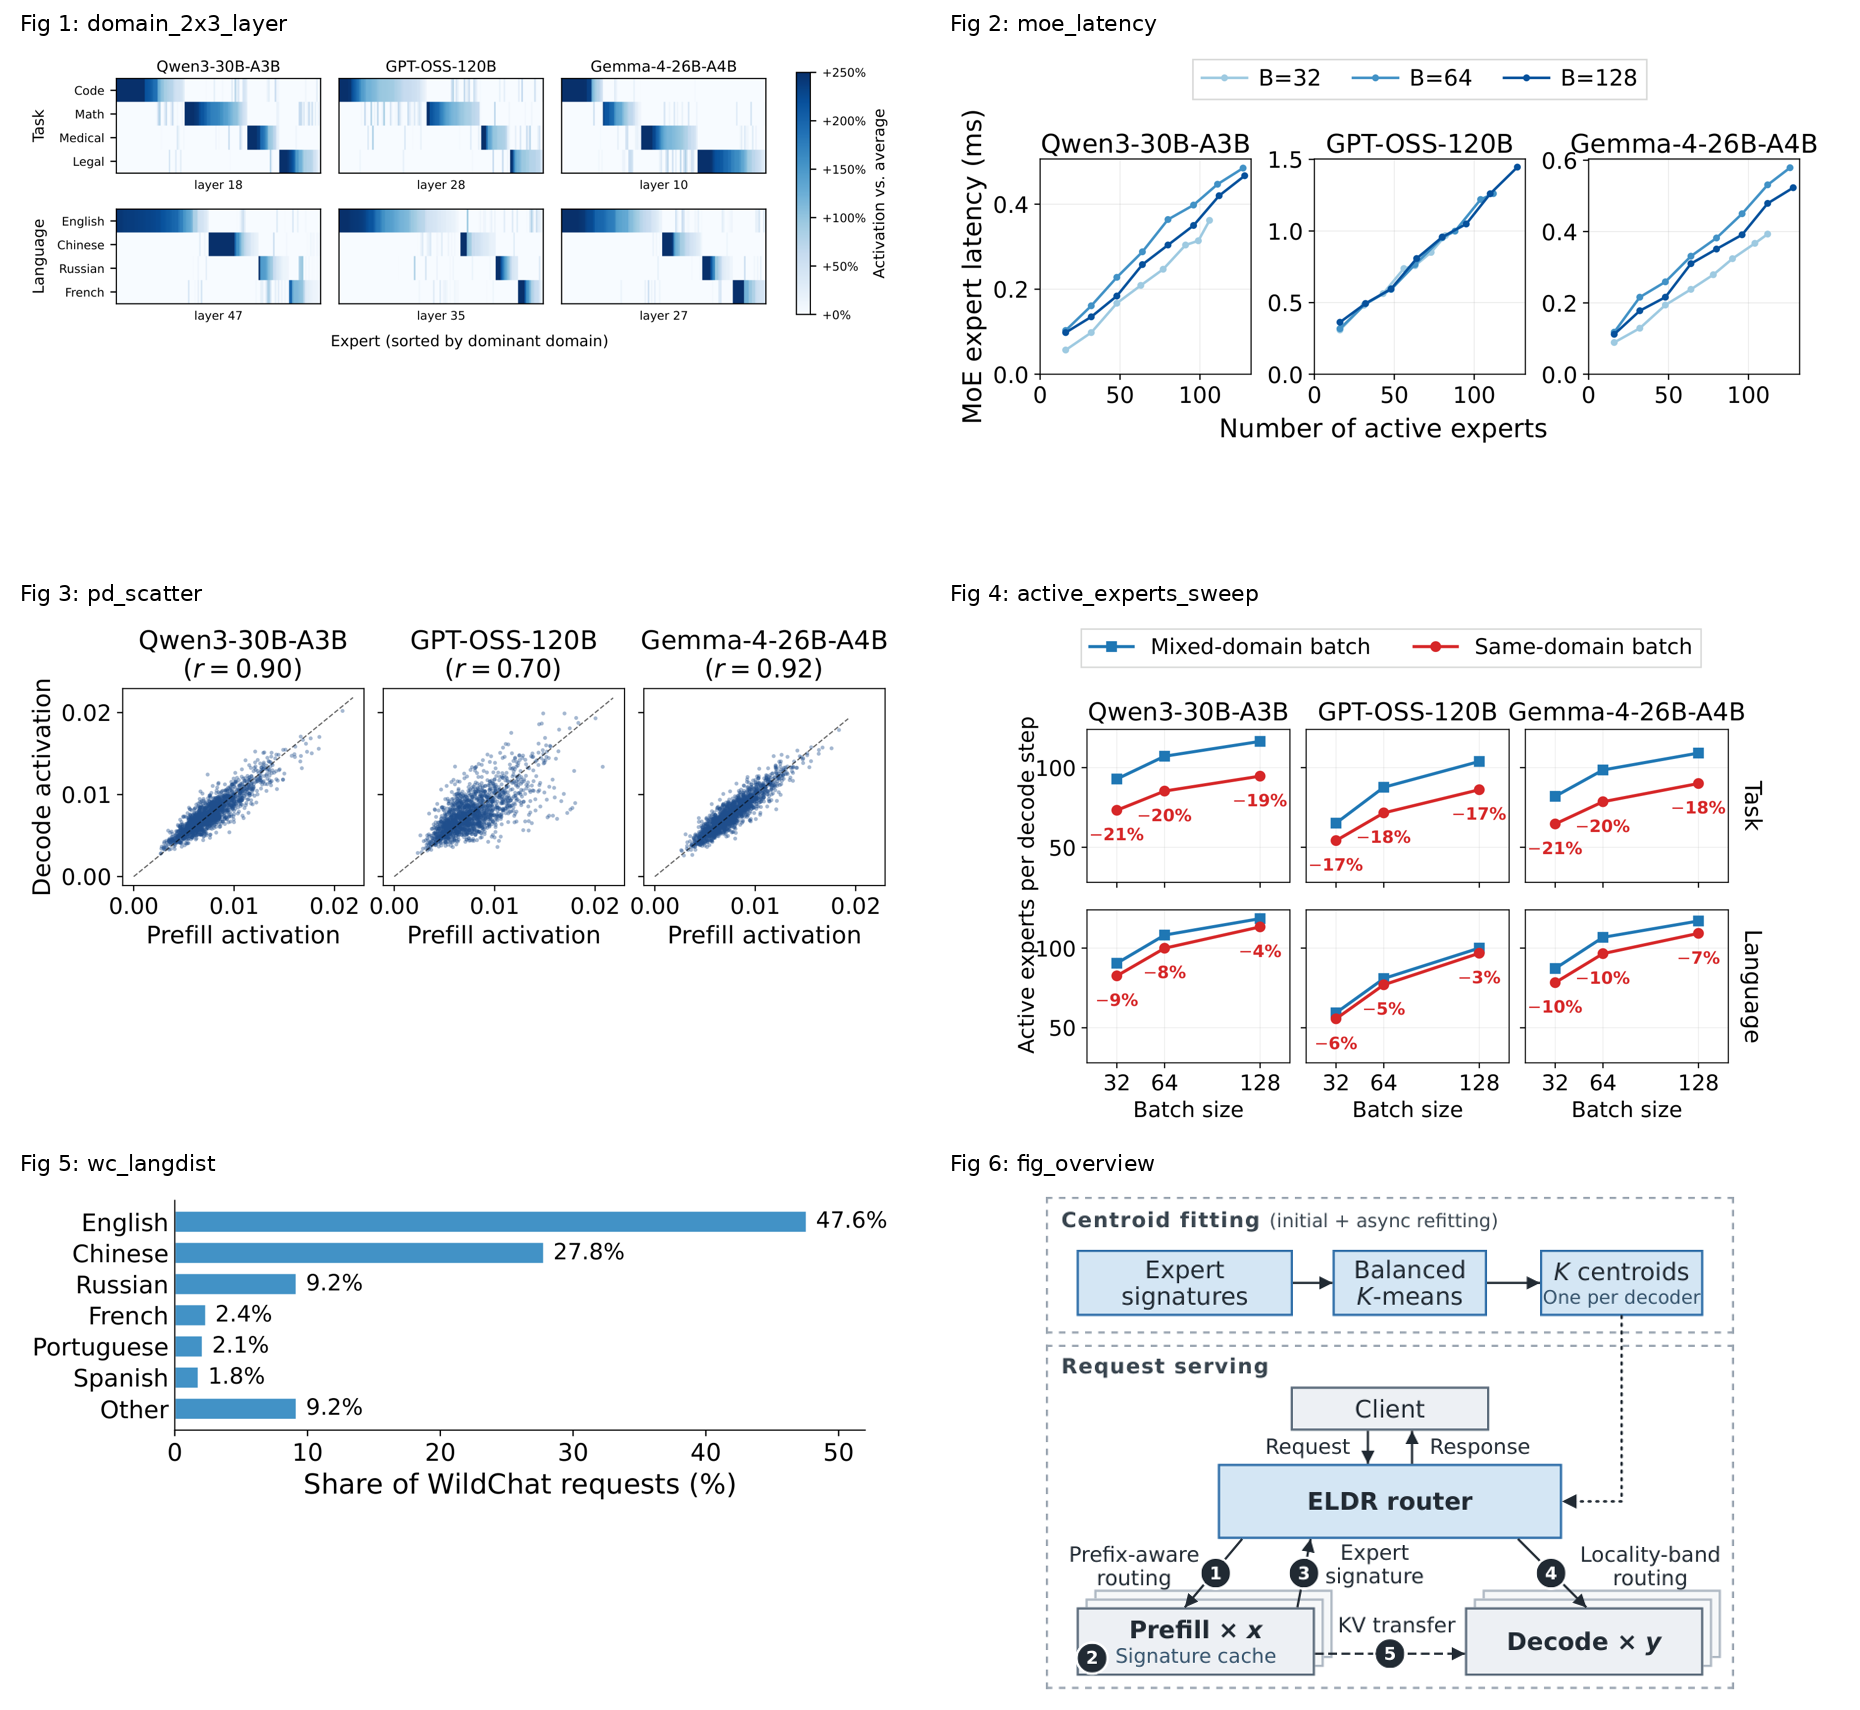
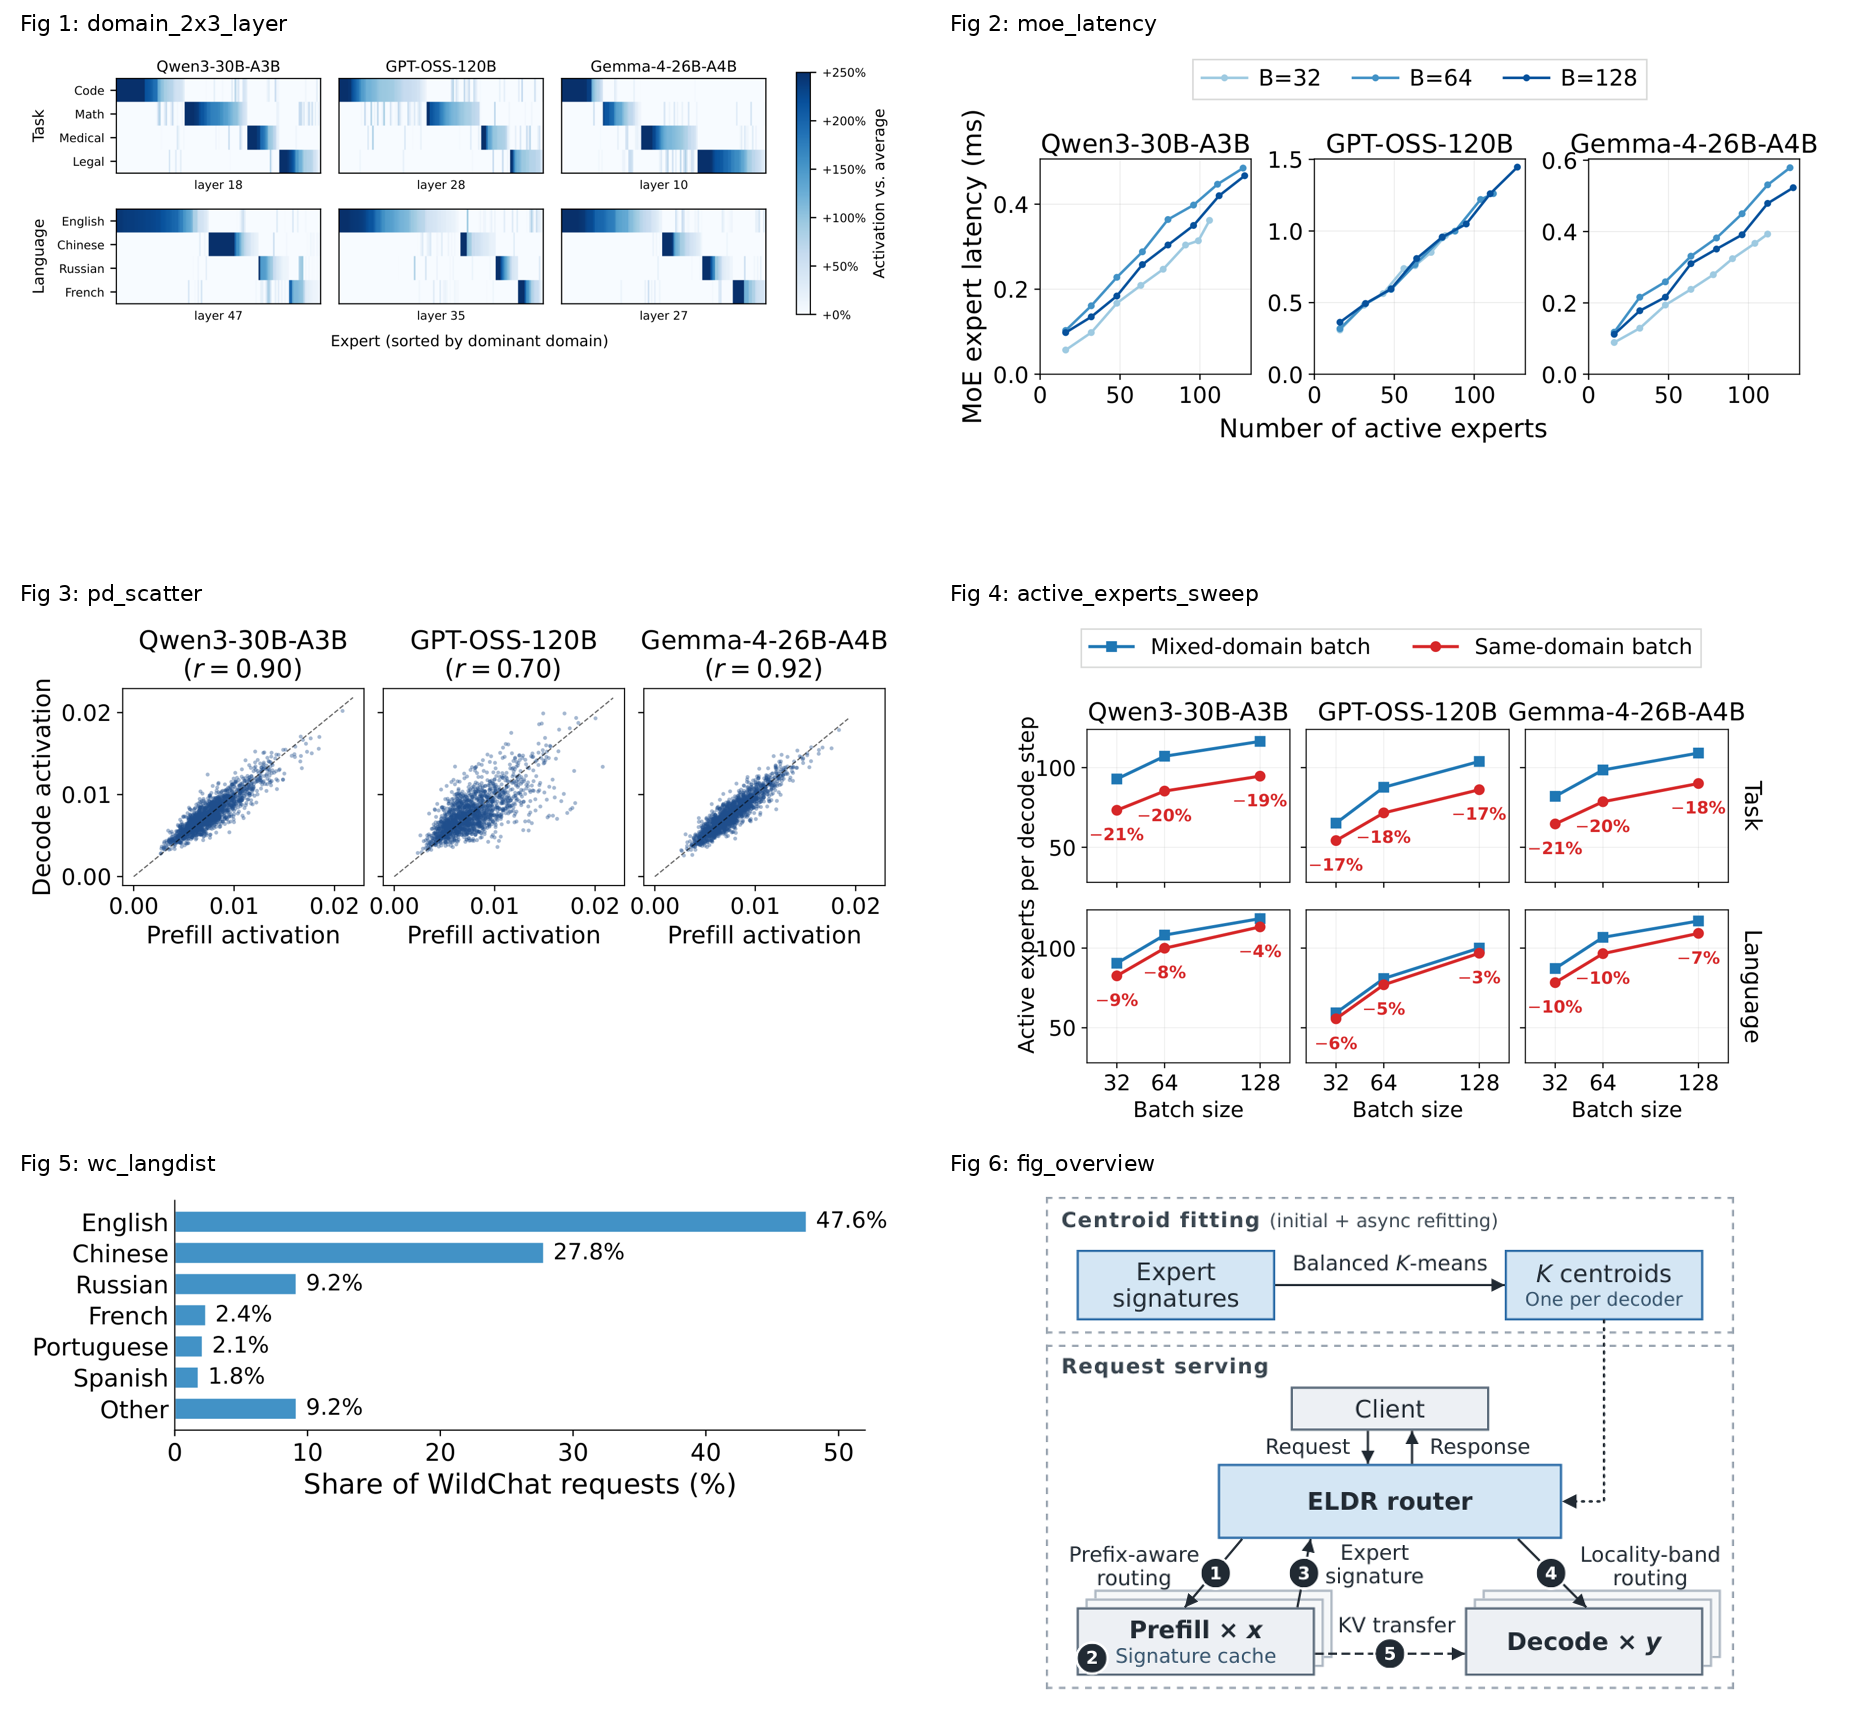
Publish aligned Fig. 6 centroid-fitting boxes
Use one Balanced K-means arrow between equally sized boxes. Update exact-PDF preview, gallery, and font audit; other figures and measurements are unchanged.

Assisted-by: OpenAI Codex

Changed region(s): [[0.5925, 0.7129, 0.9043, 0.7749]]

diff --git a/results/camera-ready-20261011-unified-figures/plots/overview.html b/results/camera-ready-20261011-unified-figures/plots/overview.html
@@ -43,11 +43,9 @@
   <div class="phase" style="left:4px;top:4px;width:312px;height:62px;"></div>
   <div class="tab" style="left:11px;top:9px;">Centroid fitting
       <span style="font-size:8.5px;font-weight:normal;letter-spacing:0;">(initial + async refitting)</span></div>
-  <div class="b acc" style="left:18px;top:28px;width:98px;height:30px;">
+  <div class="b acc" style="left:18px;top:28px;width:90px;height:32px;">
       <span>Expert<br>signatures</span></div>
-  <div class="b acc" style="left:134px;top:28px;width:70px;height:30px;">
-      <span>Balanced</span><span><i>K</i>-means</span></div>
-  <div class="b acc" style="left:228px;top:28px;width:74px;height:30px;">
+  <div class="b acc" style="left:212px;top:28px;width:90px;height:32px;">
       <span><i>K</i> centroids</span><span class="sub note">One per decoder</span></div>
 
   <!-- Request serving: step numbers match the five steps in the text. -->
@@ -76,8 +74,7 @@
     </defs>
     <!-- request / response flow: solid -->
     <g stroke="#222A33" stroke-width="1" fill="none">
-      <line x1="116" y1="43" x2="134" y2="43" marker-end="url(#mf)"/>
-      <line x1="204" y1="43" x2="228" y2="43" marker-end="url(#mf)"/>
+      <line x1="108" y1="44" x2="212" y2="44" marker-end="url(#mf)"/>
       <line x1="150" y1="110" x2="150" y2="125" marker-end="url(#mf)"/>
       <line x1="170" y1="125" x2="170" y2="110" marker-end="url(#mf)"/>
       <line x1="93" y1="159" x2="67" y2="190" marker-end="url(#mf)"/>
@@ -90,9 +87,11 @@
     </g>
     <!-- The router reads current centroids without waiting for refitting. -->
     <g stroke="#222A33" stroke-width="1.1" fill="none" stroke-dasharray="1,2.5" stroke-linecap="round">
-      <path d="M265,58 V142 H238" marker-end="url(#mf)"/>
+      <path d="M257,60 V142 H238" marker-end="url(#mf)"/>
     </g>
   </svg>
+
+  <div class="lab labc" style="left:160px;top:29px;">Balanced <i>K</i>-means</div>
 
   <!-- client I/O -->
   <div class="lab labr" style="left:142px;top:112px;">Request</div>

diff --git a/results/camera-ready-20261011-unified-figures/README.md b/results/camera-ready-20261011-unified-figures/README.md
@@ -27,7 +27,8 @@ geometry, labels, ticks and colors are identical; only stacking order changed.
 Ablation checks confirm unchanged measurements, bar heights, whiskers, axes
 and heatmap cells despite the color/order updates. No new results are substituted.
 Fig. 6 combines initialization and asynchronous refitting in "Centroid fitting",
-with one "Expert signatures" input into balanced K-means. A single black dotted
+with equally sized, center-aligned "Expert signatures" and "K centroids" boxes.
+A single connecting arrow is labeled "Balanced K-means". A single black dotted
 arrow starts at the bottom center of the centroid box and supplies the resulting
 centroids to the router; the feedback arrow from
 the router to the signature input is omitted. The other region is "Request serving".
@@ -37,7 +38,7 @@ The figure is about 10% shorter without reducing font sizes;
 the signature-return and KV-transfer labels are separated. The fixed transform
 is explained in the paper text, not inside the router box.
 Paper update:
-[`9ba1407`](https://github.com/fzheart/ELDR-ATC26/commit/9ba1407fae73b146383a65a3b0e7e40f21502e4b).
+[`242c180`](https://github.com/fzheart/ELDR-ATC26/commit/242c1801cdd995ac1f04ccc3ba5bda86247a3319).
 
 ## Locality band: newly validated five-rate results
 
